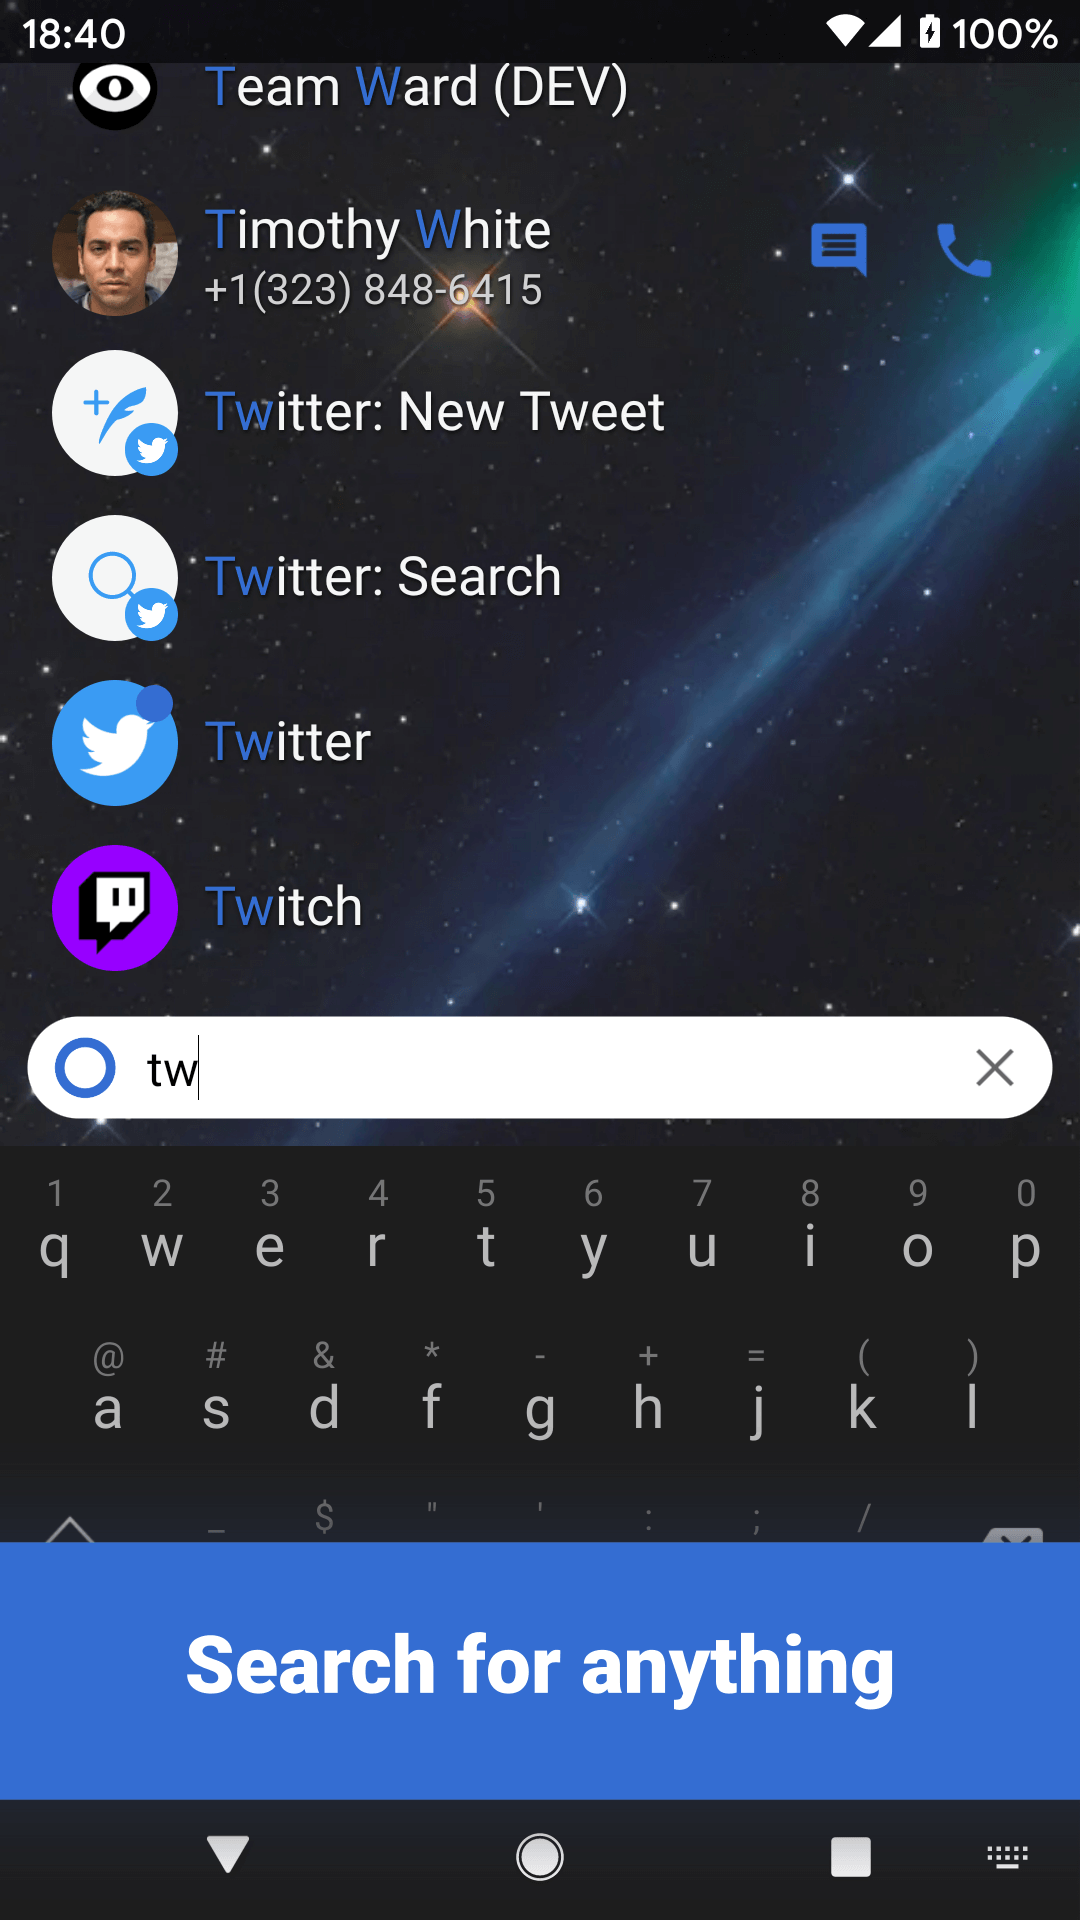
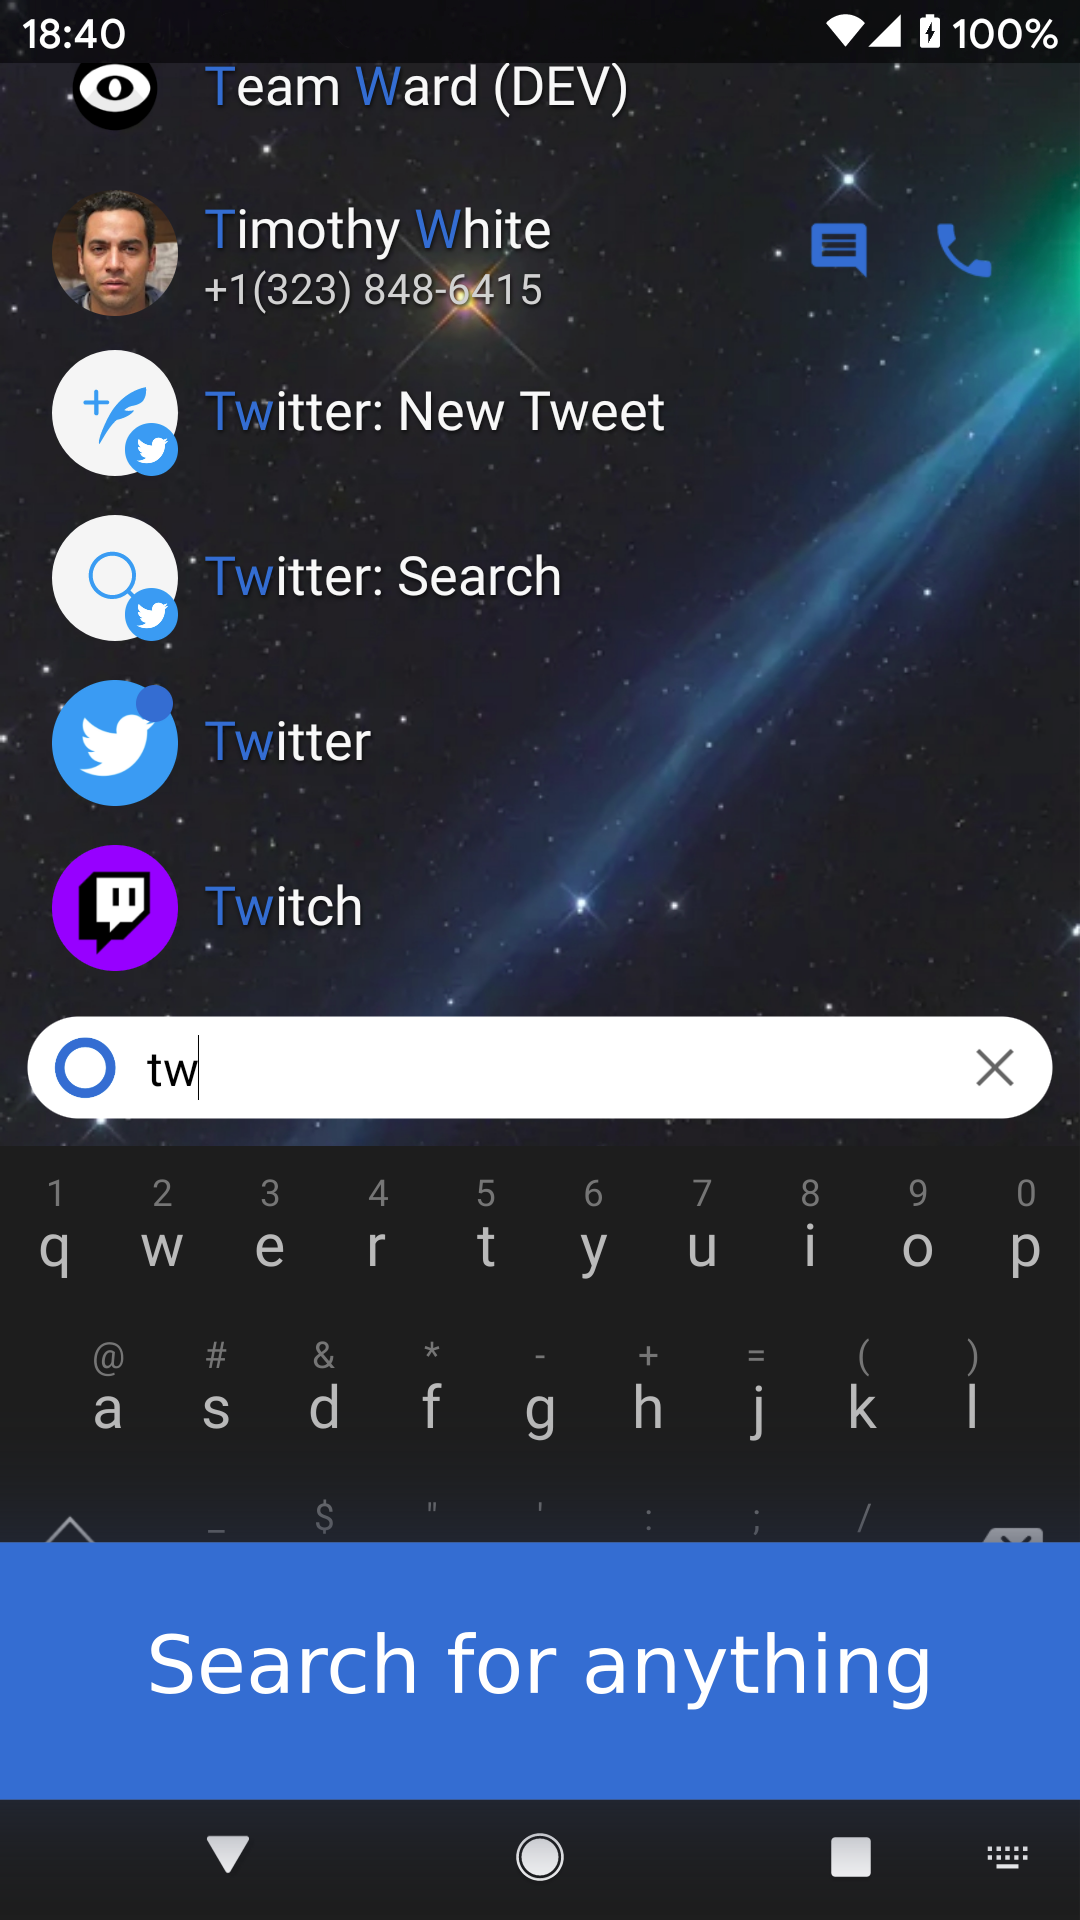
Generate phone screenshots

Changed region(s): [[0.1222, 0.8438, 0.5194, 0.9062], [0.55, 0.8438, 0.8556, 0.9062]]

diff --git a/fastlane/generate_graphics.py b/fastlane/generate_graphics.py
@@ -10,8 +10,7 @@ import shutil
 LOCALES_PREFIX = './metadata/android/'
 locales = [l.replace(LOCALES_PREFIX, '') for l in sorted(glob.glob(LOCALES_PREFIX + '*'))]
 
-screenshots = ['./graphic_templates/phoneScreenshots/1.svg', './graphic_templates/phoneScreenshots/2.svg', './graphic_templates/phoneScreenshots/3.svg', './graphic_templates/phoneScreenshots/4.svg']
-graphics = ['./graphic_templates/featureGraphic.svg']
+screenshots = sorted(glob.glob('./graphic_templates/phoneScreenshots/*.svg'))
 
 
 def get_last_change(file):
@@ -25,6 +24,33 @@ def get_last_change(file):
     return datetime.datetime.strptime(out.decode('ascii'), r"%Y-%m-%d %H:%M:%S %z")
 
 
+def build_image(template_path, text_path, out_path, placeholder):
+    if not os.path.exists(text_path):
+        return
+
+    text_modified_date = get_last_change(text_path)
+    template_modified_date = get_last_change(template_path)
+    out_modified_date = get_last_change(out_path)
+
+    if text_modified_date <= out_modified_date and template_modified_date <= out_modified_date:
+        return
+
+    print("Generating %s for %s" % (out_path[out_path.rindex('/'):], locale))
+
+    with open(text_path) as f:
+        text = f.readline().strip()
+
+    with open(template_path, 'r') as i:
+        with open('/tmp/out.svg', 'w') as o:
+            for l in i.readlines():
+                l = l.replace(placeholder, text)
+                o.write(l)
+
+    subprocess.check_output(['inkscape', '--export-type=png', '--export-filename=/tmp/out.png', '--export-dpi=96', '/tmp/out.svg'])
+
+    shutil.move("/tmp/out.png", os.getcwd() + '/' + out_path.replace('./', ''))
+
+
 for locale in locales:
     os.makedirs('%s%s/images/phoneScreenshots' % (LOCALES_PREFIX, locale), exist_ok=True)
 
@@ -34,27 +60,13 @@ for locale in locales:
     feature_graphic_template_path = './graphic_templates/featureGraphic.svg'
     feature_graphic_text_path = '%s%s/short_description.txt' % (LOCALES_PREFIX, locale)
     feature_graphic_out_path = '%s%s/images/featureGraphic.png' % (LOCALES_PREFIX, locale)
+    build_image(feature_graphic_template_path, feature_graphic_text_path, feature_graphic_out_path, 't:featureGraphic.subtitle')
 
-    if not os.path.exists(feature_graphic_text_path):
-        continue
-
-    text_modified_date = get_last_change(feature_graphic_text_path)
-    template_modified_date = get_last_change(feature_graphic_template_path)
-    out_modified_date = get_last_change(feature_graphic_out_path)
-
-    if text_modified_date <= out_modified_date and template_modified_date <= out_modified_date:
-        continue
-
-    print("Generating featureGraphic for %s" % locale)
-    with open(feature_graphic_text_path) as f:
-        feature_graphic_text = f.readline().strip()
-
-    with open(feature_graphic_template_path, 'r') as i:
-        with open('/tmp/out.svg', 'w') as o:
-            for l in i.readlines():
-                l = l.replace('t:featureGraphic.subtitle', feature_graphic_text)
-                o.write(l)
-
-    subprocess.check_output(['inkscape', '--export-type=png', '--export-filename=/tmp/out.png', '--export-dpi=96', '/tmp/out.svg'])
-
-    shutil.move("/tmp/out.png", os.getcwd() + '/' + feature_graphic_out_path.replace('./', ''))
+    ######
+    # Screenshots
+    ######
+    for screenshot_template_path in screenshots:
+        screenshot_id = screenshot_template_path[screenshot_template_path.rindex('/')+1:-4]
+        screenshot_text_path = '%s%s/screenshot_%s.txt' % (LOCALES_PREFIX, locale, screenshot_id)
+        screenshot_out_path = '%s%s/images/phoneScreenshots/%s.png' % (LOCALES_PREFIX, locale, screenshot_id)
+        build_image(screenshot_template_path, screenshot_text_path, screenshot_out_path, 't:screenshot.text')
